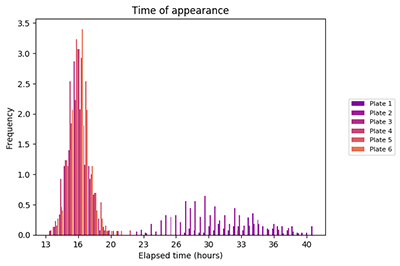
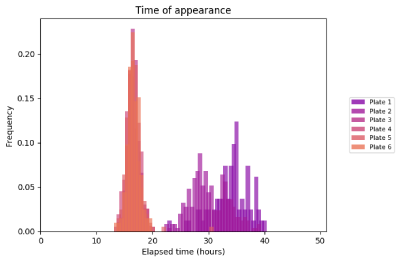
Update documentation to reflect changes to growth modelling

Changed region(s): [[0.0, 0.0, 0.84, 0.9771], [0.87, 0.3664, 0.99, 0.5802]]

diff --git a/docs/CHANGELOG.md b/docs/CHANGELOG.md
@@ -4,14 +4,16 @@ All notable changes to this project will be documented in this file.
 The format is based on [Keep a Changelog](https://keepachangelog.com/en/1.0.0/),
 and this project adheres to [Semantic Versioning](https://semver.org/spec/v2.0.0.html).
 
-## [0.4.0] - 2020-02-26
+## [0.4.0] - 2020-03-26
 ### Added
 - `plate_labels` command line argument
 - `base` module with base classes to provide core functionality throughout the package
 - `geometry` module with base shape classes
 - `plate` module with `Plate` and `PlateCollection` classes
 - `image_file` module with `ImageFile` and `ImageFileCollection` classes
+- `growth_curve` module to provide curve fitting and parameters
 - `plot_plate_images_animation` outputs animated gifs for each plate in two sizes
+- Output a summary of plate properties to `plates_summary.csv`
 - Full type hinting for all modules
 ### Changed
 - Extended compatibility to Python 3.8
@@ -21,6 +23,8 @@ and this project adheres to [Semantic Versioning](https://semver.org/spec/v2.0.0
 - `save_plots` command line argument renamed to `plots`
 - Refactored most of the functions from `main` as static methods in the `plate` or `image_file` modules
 - Improved flexibility when detecting date and time stamp information in file names
+- Replaced growth properties in `Colony`, now implemented as `growth_curve.GrowthCurveModel`
+- Modified plots to use new `GrowthCurveModel` properties
 ### Fixed
 - A rare error when opening images using skimage.io.imread
 - Corrected default DPI settings and conversion factor

diff --git a/docs/example_output.md b/docs/example_output.md
@@ -20,7 +20,7 @@ A 'map' of the identified plates and colonies will be output to show how they ha
 At the default level, a few comparison plots are output to the `plots` folder in your image folder. Theses allow quick verification and comparison of the data.
 
 Increasing the level of `plots` will output plots for each individual plate.
-<img align="right" src="../images/time_of_appearance_small.png">
+<img align="right" src="../images/time_of_appearance_bar_small.png">
 
 At the highest level of `plots`, a separate animated gif image of each plate is output. This may be useful for viewing the progression of colonies through their growth period, as well as for comparing growth in differing plate conditions.
 
@@ -29,7 +29,9 @@ Only the measured plate area is shown in the animations. The area defined by `pl
 ## Data
 All the data gathered during analysis is output to the `data` folder in your images folder. Data is output as CSV files which is compatible with almost all data packages.
 
-The data is collated in two files for each plate, one with aggregate data for each colony and another with colony data at every image time point:
+Summarised data of all plates is saved as `plates_summary.csv`
+
+Additionally, data is collated in two files for each plate, one with aggregate data for each colony and another with colony data at every image time point:
 
 ```
 plate1_colonies.csv

diff --git a/docs/index.md b/docs/index.md
@@ -1,5 +1,5 @@
 # ColonyScanalyser
-<img align="right" src="images/growth_curve_small.png">
+<img align="right" src="images/growth_curve_linear_small.png">
 An image analysis tool for measuring microorganism colony growth.
 ColonyScanalyser will analyse and collate statistical data from agar plate images.
  It provides fast, high-throughput image processing.
@@ -7,7 +7,7 @@ ColonyScanalyser will analyse and collate statistical data from agar plate image
 ColonyScanalyser can provide information on:
 
 * Colony appearance time
-* Colony growth over time
+* Growth parameters (lag time, rate, carrying capacity)
 * Growth and appearance time distribution
 * Colony colour (e.g. staining or other visual indicator)
 
@@ -17,13 +17,14 @@ pip install colonyscanalyser
 ```
 Full [installation instructions](installation.md).
 
+<img align="right" src="images/growth_curve_small.png">
+
 ## Run
 ```
 scanalyser /path/to/images
 ```
 See the [quick start guide](quick_start.md) for more information on getting up and running with ColonyScanalyser.
 
-<img align="right" src="images/plate_timelapse_tiny.gif">
 ## Image requirements
 ColonyScanalyser is suitable for analysing series of images from a fixed point that show the development of microorganism colonies over time. The [image specifications page](image_specifications.md) has more detail on image requirements.
 

diff --git a/README.md b/README.md
@@ -6,11 +6,11 @@ An image analysis tool for measuring microorganism colony growth.
 
 ColonyScanalyser will analyse and collate statistical data from agar plate images. It provides fast, high-throughput image processing.
 
-<img align="right" src="docs/images/growth_curve_small.png">
+<img align="right" src="docs/images/growth_curve_linear_small.png">
 
 ColonyScanalyser can provide information on:
 * Colony appearance time
-* Colony growth over time
+* Growth parameters (lag time, rate, carrying capacity)
 * Growth and appearance time distribution
 * Colony colour (e.g. staining or other visual indicators)
 

diff --git a/docs/image_specifications.md b/docs/image_specifications.md
@@ -24,4 +24,4 @@ The image below shows the same set of plates at the start (left), and the end (r
 
 The plates on the bottom row are empty, but show the importance of a high contrast background.
 
-<img align="left" src="../images/plate_example.png">
+<img align="left" src="images/plate_example.png">
